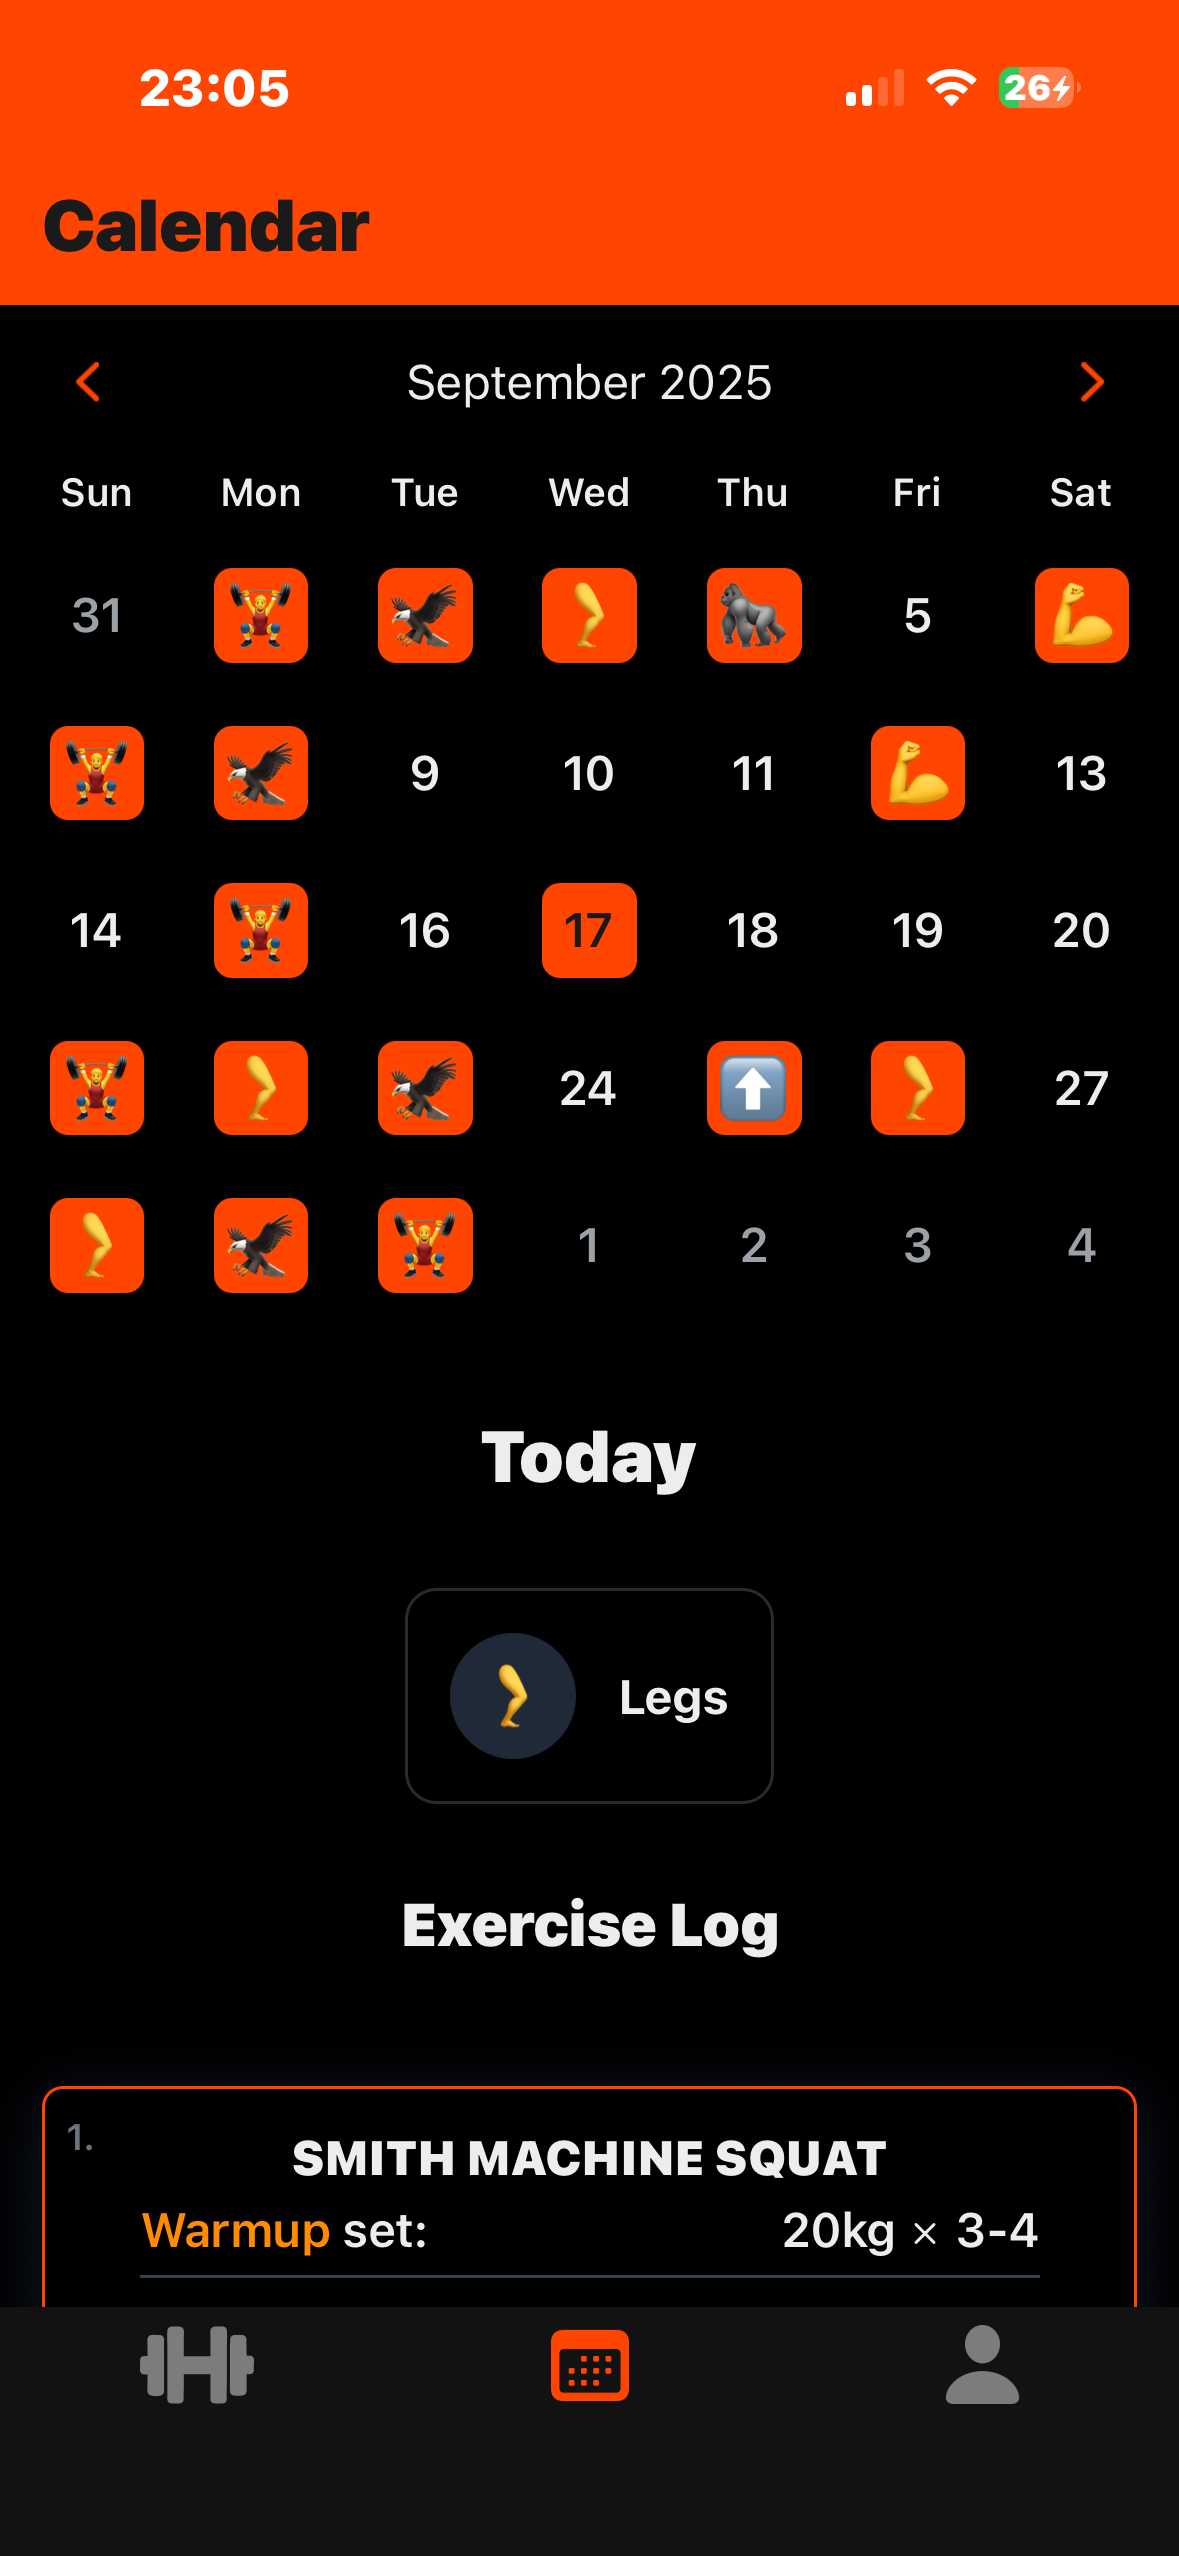
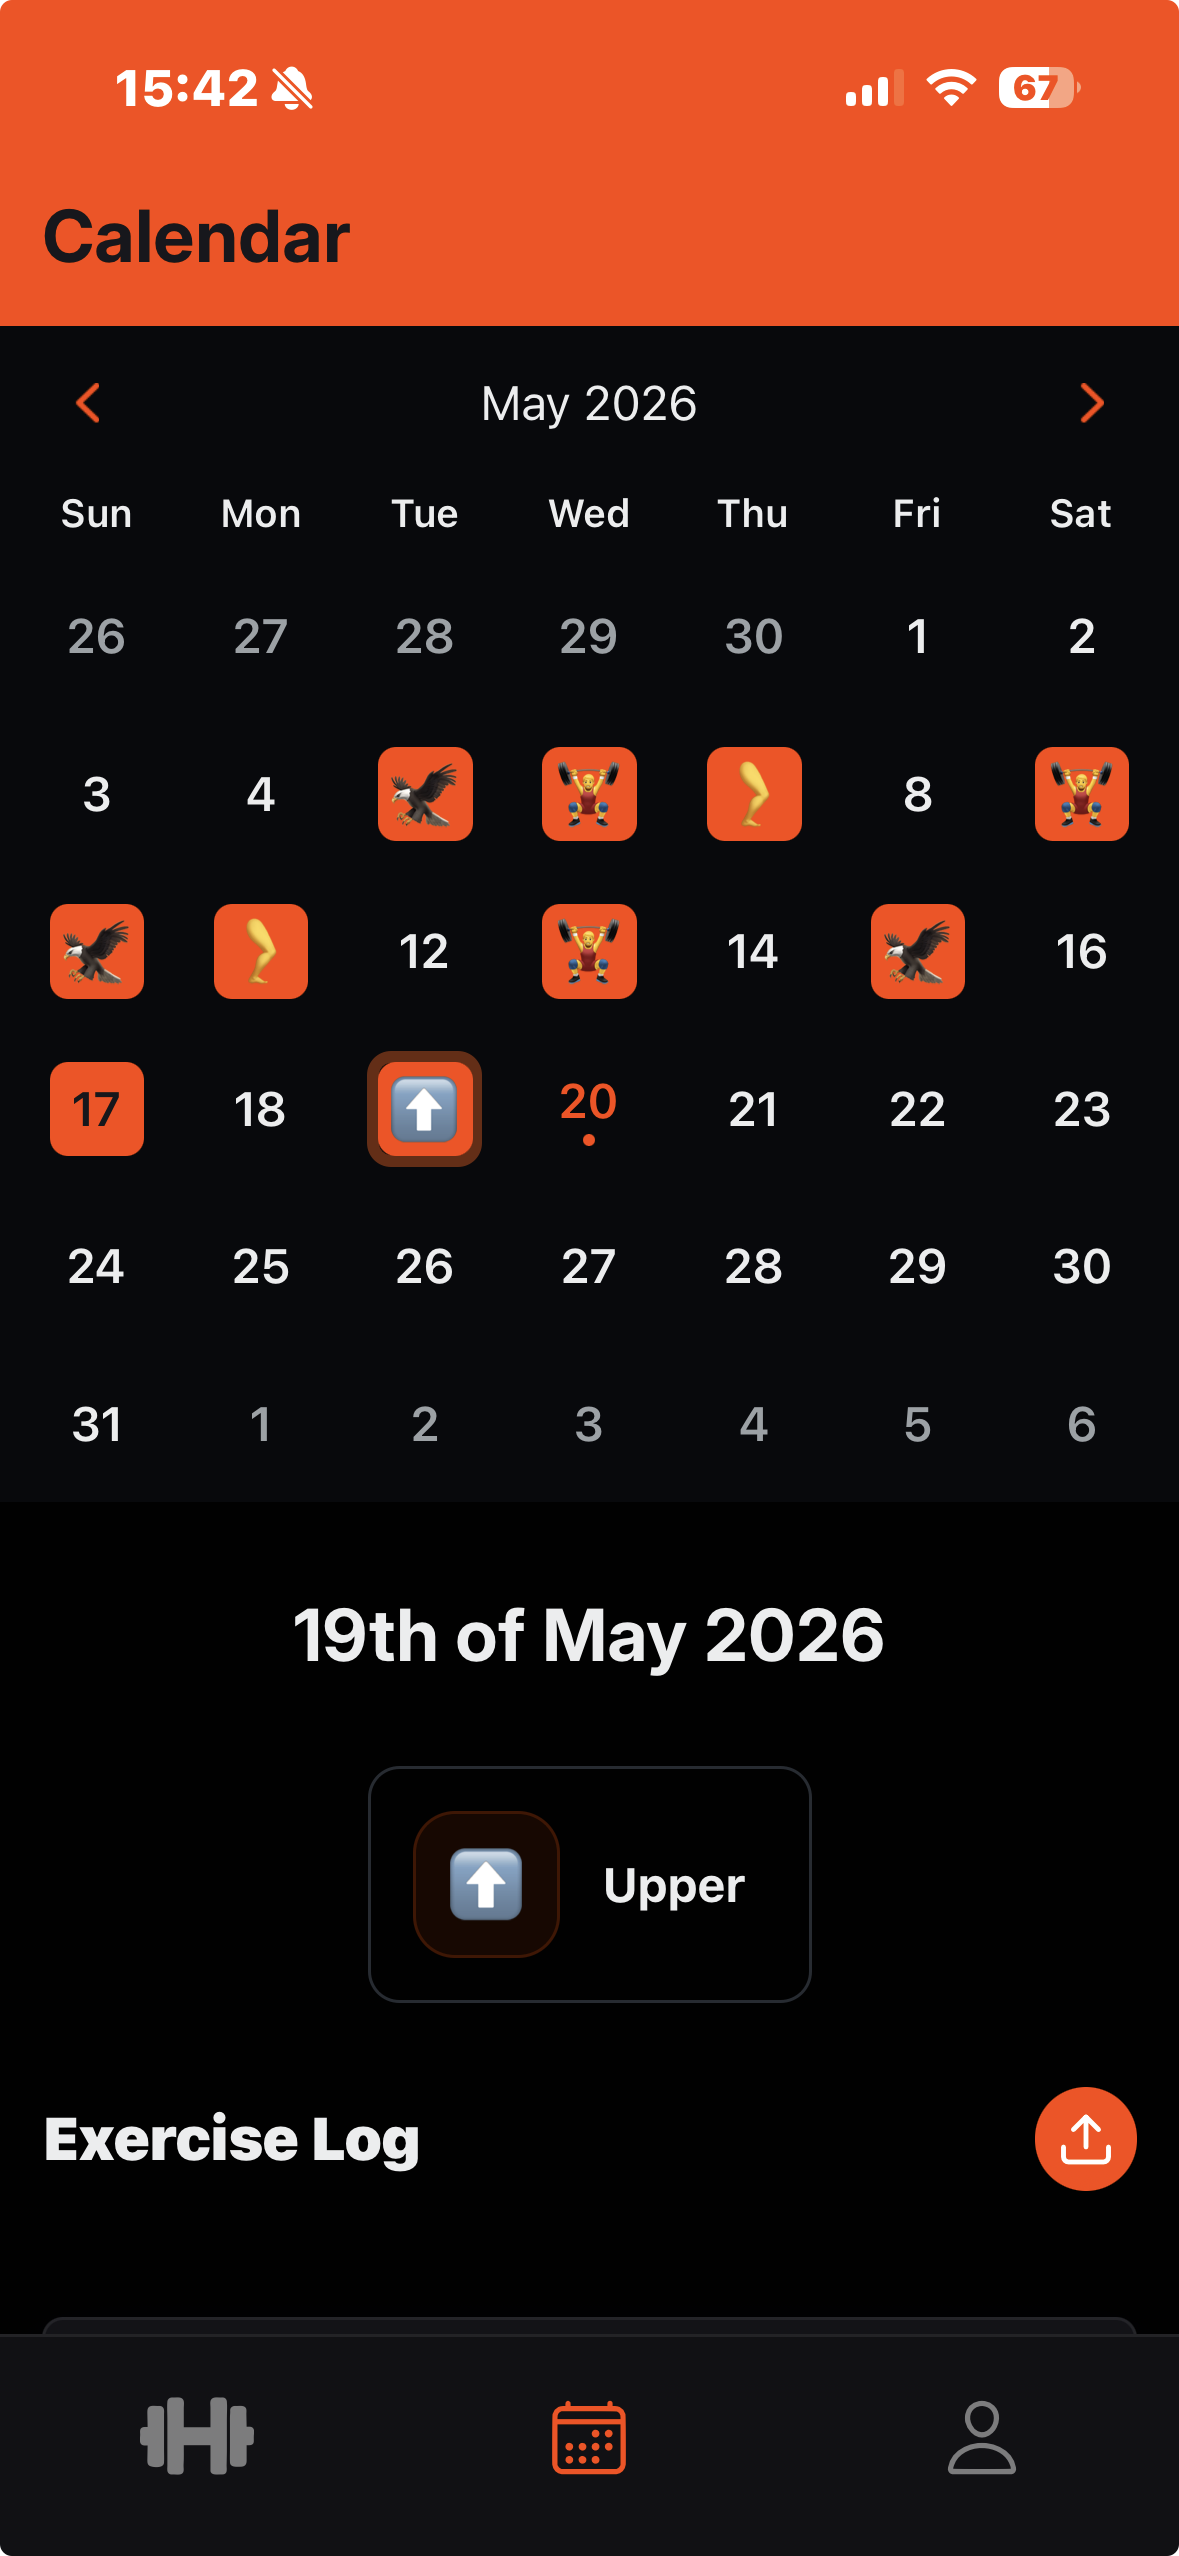
feat: update the website for app store release

diff --git a/index.html b/index.html
@@ -4,6 +4,10 @@
     <meta charset="UTF-8" />
     <meta name="viewport" content="width=device-width, initial-scale=1.0" />
     <title>Hercule - Your Ultimate Fitness Companion</title>
+    <meta
+      name="apple-itunes-app"
+      content="app-id=6755726344, app-argument=https://apps.apple.com/gb/app/hercule-fitness-tracker/id6755726344"
+    />
     <link rel="stylesheet" href="styles.css" />
   </head>
   <body>
@@ -57,8 +61,8 @@
         <div class="hero-image">
           <div class="phone-mockup">
             <img
-              src="assets/images/today-log-screen.png"
-              alt="Hercule Today Log View"
+              src="assets/images/dashboard-screen.png"
+              alt="Hercule dashboard view"
               class="screenshot-main"
             />
           </div>
@@ -138,77 +142,72 @@
     <!-- Screenshots Section -->
     <section id="screenshots" class="screenshots">
       <div class="container">
-        <h2 class="section-title">See Hercule in Action</h2>
+        <h2 class="section-title">Screens from the new app flow</h2>
         <p class="section-subtitle">
-          Experience the power and simplicity of our design
+          A cleaner gallery built from the latest screenshots you uploaded
         </p>
 
         <div class="screenshots-grid">
           <div class="screenshot-item">
-            <img src="assets/images/calendar-screen.png" alt="Calendar View" />
+            <img
+              src="assets/images/dashboard-screen.png"
+              alt="Dashboard screen"
+            />
             <div class="screenshot-caption">
-              <h4>Calendar View</h4>
-              <p>Track your training schedule at a glance</p>
+              <h4>Dashboard</h4>
+              <p>Training overview and quick navigation</p>
             </div>
           </div>
 
           <div class="screenshot-item">
-            <img src="assets/images/settings-screen.png" alt="Custom Labels" />
+            <img src="assets/images/profile-screen.png" alt="Profile screen" />
             <div class="screenshot-caption">
-              <h4>Custom Labels</h4>
-              <p>Organize workouts your way</p>
+              <h4>Profile & Labels</h4>
+              <p>Keep streaks, stats, and label collection together</p>
+            </div>
+          </div>
+
+          <div class="screenshot-item">
+            <img
+              src="assets/images/calendar-screen.png"
+              alt="Calendar screen"
+            />
+            <div class="screenshot-caption">
+              <h4>Calendar</h4>
+              <p>Plan sessions and spot training days quickly</p>
             </div>
           </div>
 
           <div class="screenshot-item">
             <img
               src="assets/images/log-exercise-screen.png"
-              alt="Exercise Logging"
+              alt="Log exercise screen"
             />
             <div class="screenshot-caption">
-              <h4>Quick Exercise Entry</h4>
-              <p>Smart search with autocomplete</p>
+              <h4>Log Exercise</h4>
+              <p>Search, pick, and add exercises fast</p>
             </div>
           </div>
 
           <div class="screenshot-item">
             <img
-              src="assets/images/today-log-screen.png"
-              alt="Today's Workout"
+              src="assets/images/edit-exercise-screen.png"
+              alt="Edit exercise screen"
             />
             <div class="screenshot-caption">
-              <h4>Today's Workout</h4>
-              <p>Detailed set and rep tracking</p>
+              <h4>Edit Exercise</h4>
+              <p>Tune sets, reps, and weight with precision</p>
             </div>
           </div>
 
           <div class="screenshot-item">
             <img
-              src="assets/images/label-selection-screen.png"
-              alt="Label Selection"
+              src="assets/images/share-day-screen.png"
+              alt="Share day screen"
             />
             <div class="screenshot-caption">
-              <h4>Choose Your Focus</h4>
-              <p>Select muscle groups for the day</p>
-            </div>
-          </div>
-
-          <div class="screenshot-item">
-            <img
-              src="assets/images/workout-detail-screen.png"
-              alt="Workout Details"
-            />
-            <div class="screenshot-caption">
-              <h4>Workout History</h4>
-              <p>Review past performance</p>
-            </div>
-          </div>
-
-          <div class="screenshot-item">
-            <img src="assets/images/add-label-screen.png" alt="Add Label" />
-            <div class="screenshot-caption">
-              <h4>Create Labels</h4>
-              <p>Build your custom workout system</p>
+              <h4>Share Your Day</h4>
+              <p>Generate a shareable image of your daily workout</p>
             </div>
           </div>
         </div>
@@ -237,8 +236,8 @@
           </div>
           <div class="highlight-image">
             <img
-              src="assets/images/calendar-screen.png"
-              alt="Exercise Tracking"
+              src="assets/images/dashboard-screen.png"
+              alt="Dashboard preview"
             />
           </div>
         </div>
@@ -251,41 +250,16 @@
         <div class="download-content">
           <h2>Ready to Start Your Journey?</h2>
           <p>Download Hercule now and take control of your fitness goals</p>
-          <div
-            style="
-              background: #ffeeba;
-              border: 1px solid #f5c06f;
-              padding: 16px;
-              margin-bottom: 24px;
-              border-radius: 8px;
-              color: #856404;
-              text-align: center;
-              font-size: 1.1em;
-            "
-          >
-            This application has not been published yet. It is currently being
-            reviewed by the App Store and Google Play.
-          </div>
           <div class="download-buttons">
             <a
-              href="#"
+              href="https://apps.apple.com/gb/app/hercule-fitness-tracker/id6755726344"
               class="download-button-link"
-              style="pointer-events: none; opacity: 0.5"
+              target="_blank"
+              rel="noopener noreferrer"
             >
               <img
                 src="assets/buttons/Apple-Download-Button.png"
                 alt="Download on the App Store"
-                class="download-button-img"
-              />
-            </a>
-            <a
-              href="#"
-              class="download-button-link"
-              style="pointer-events: none; opacity: 0.5"
-            >
-              <img
-                src="assets/buttons/Android-Download-Button.png"
-                alt="Get it on Google Play"
                 class="download-button-img"
               />
             </a>

diff --git a/styles.css b/styles.css
@@ -345,6 +345,7 @@ body {
     width: 100%;
     height: 450px;
     object-fit: cover;
+    object-position: top center;
     display: block;
 }
 

diff --git a/README.md b/README.md
@@ -13,17 +13,20 @@ A modern, responsive promotional website for the Hercule fitness tracking app.
 
 ## Setup Instructions
 
-### 1. Add Screenshots
+### 1. Screenshots
 
-Place your app screenshots in the `/images` folder with the following names:
+The gallery is wired to the latest uploaded screenshots in `assets/images`:
 
-- `calendar-screen.png` - Main calendar view
-- `settings-screen.png` - Settings/labels page
-- `log-exercise-screen.png` - Exercise logging screen
-- `today-log-screen.png` - Today's workout log
-- `label-selection-screen.png` - Label selection modal
-- `workout-detail-screen.png` - Detailed workout view
-- `add-label-screen.png` - Add new label screen
+- `dashboard-screen.png` - Main dashboard
+- `profile-screen.png` - Profile and label overview
+- `calendar-screen.png` - Calendar view
+- `log-exercise-screen.png` - Exercise search and logging screen
+- `edit-exercise-screen.png` - Edit exercise screen
+- `share-day-screen.png` - Shareable workout summary image
+
+### App Store
+
+Hercule is published on the App Store: https://apps.apple.com/gb/app/hercule-fitness-tracker/id6755726344
 
 ### 2. Open the Website
 
@@ -45,13 +48,13 @@ HerculeWebsite/
 ├── index.html          # Main HTML file
 ├── styles.css          # All styling
 ├── images/            # App screenshots
+│   ├── dashboard-screen.png
+│   ├── profile-screen.png
 │   ├── calendar-screen.png
-│   ├── settings-screen.png
 │   ├── log-exercise-screen.png
-│   ├── today-log-screen.png
-│   ├── label-selection-screen.png
-│   ├── workout-detail-screen.png
-│   └── add-label-screen.png
+│   ├── edit-exercise-screen.png
+│   ├── share-day-screen.png
+│   └── IMG_0368.PNG
 └── README.md          # This file
 ```
 
